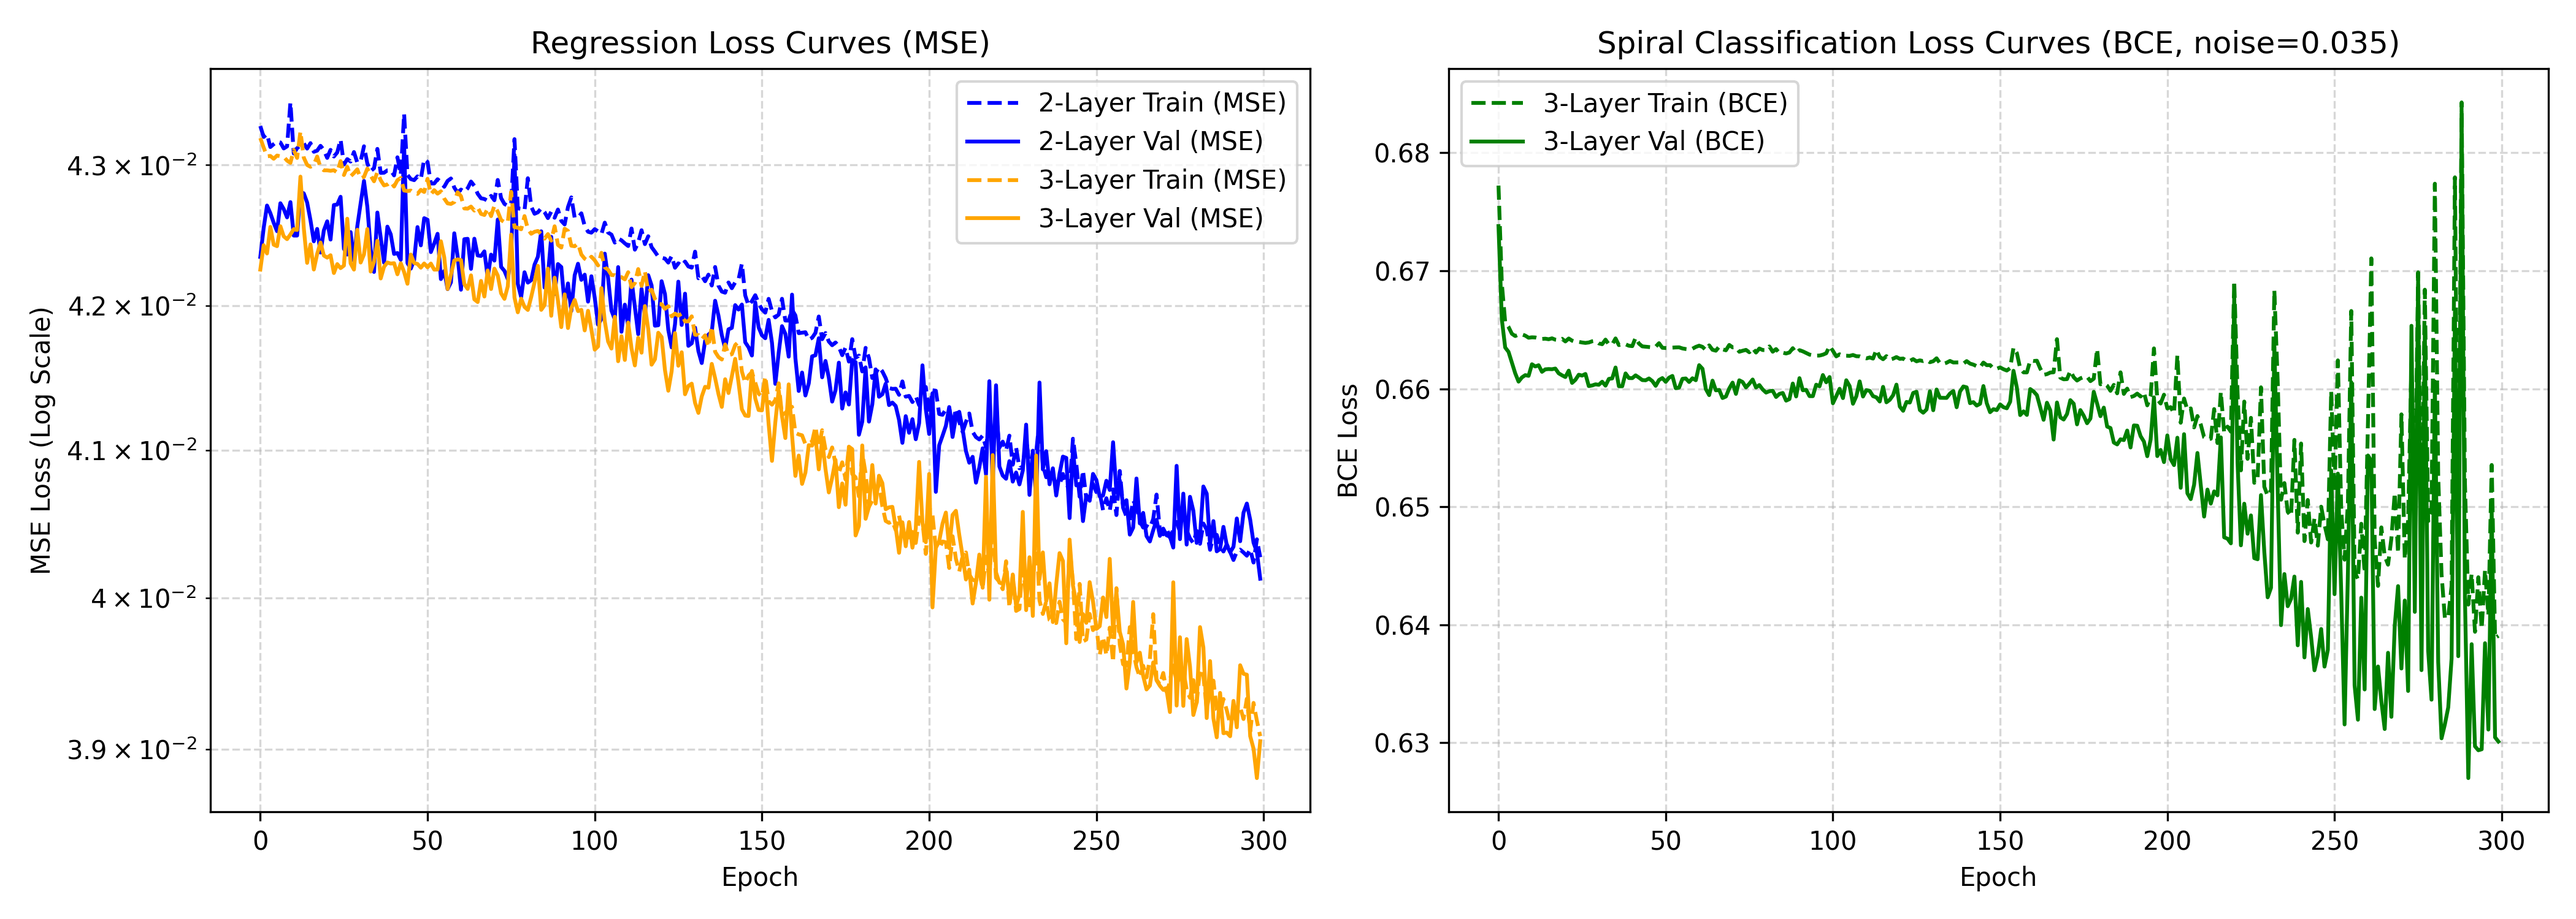
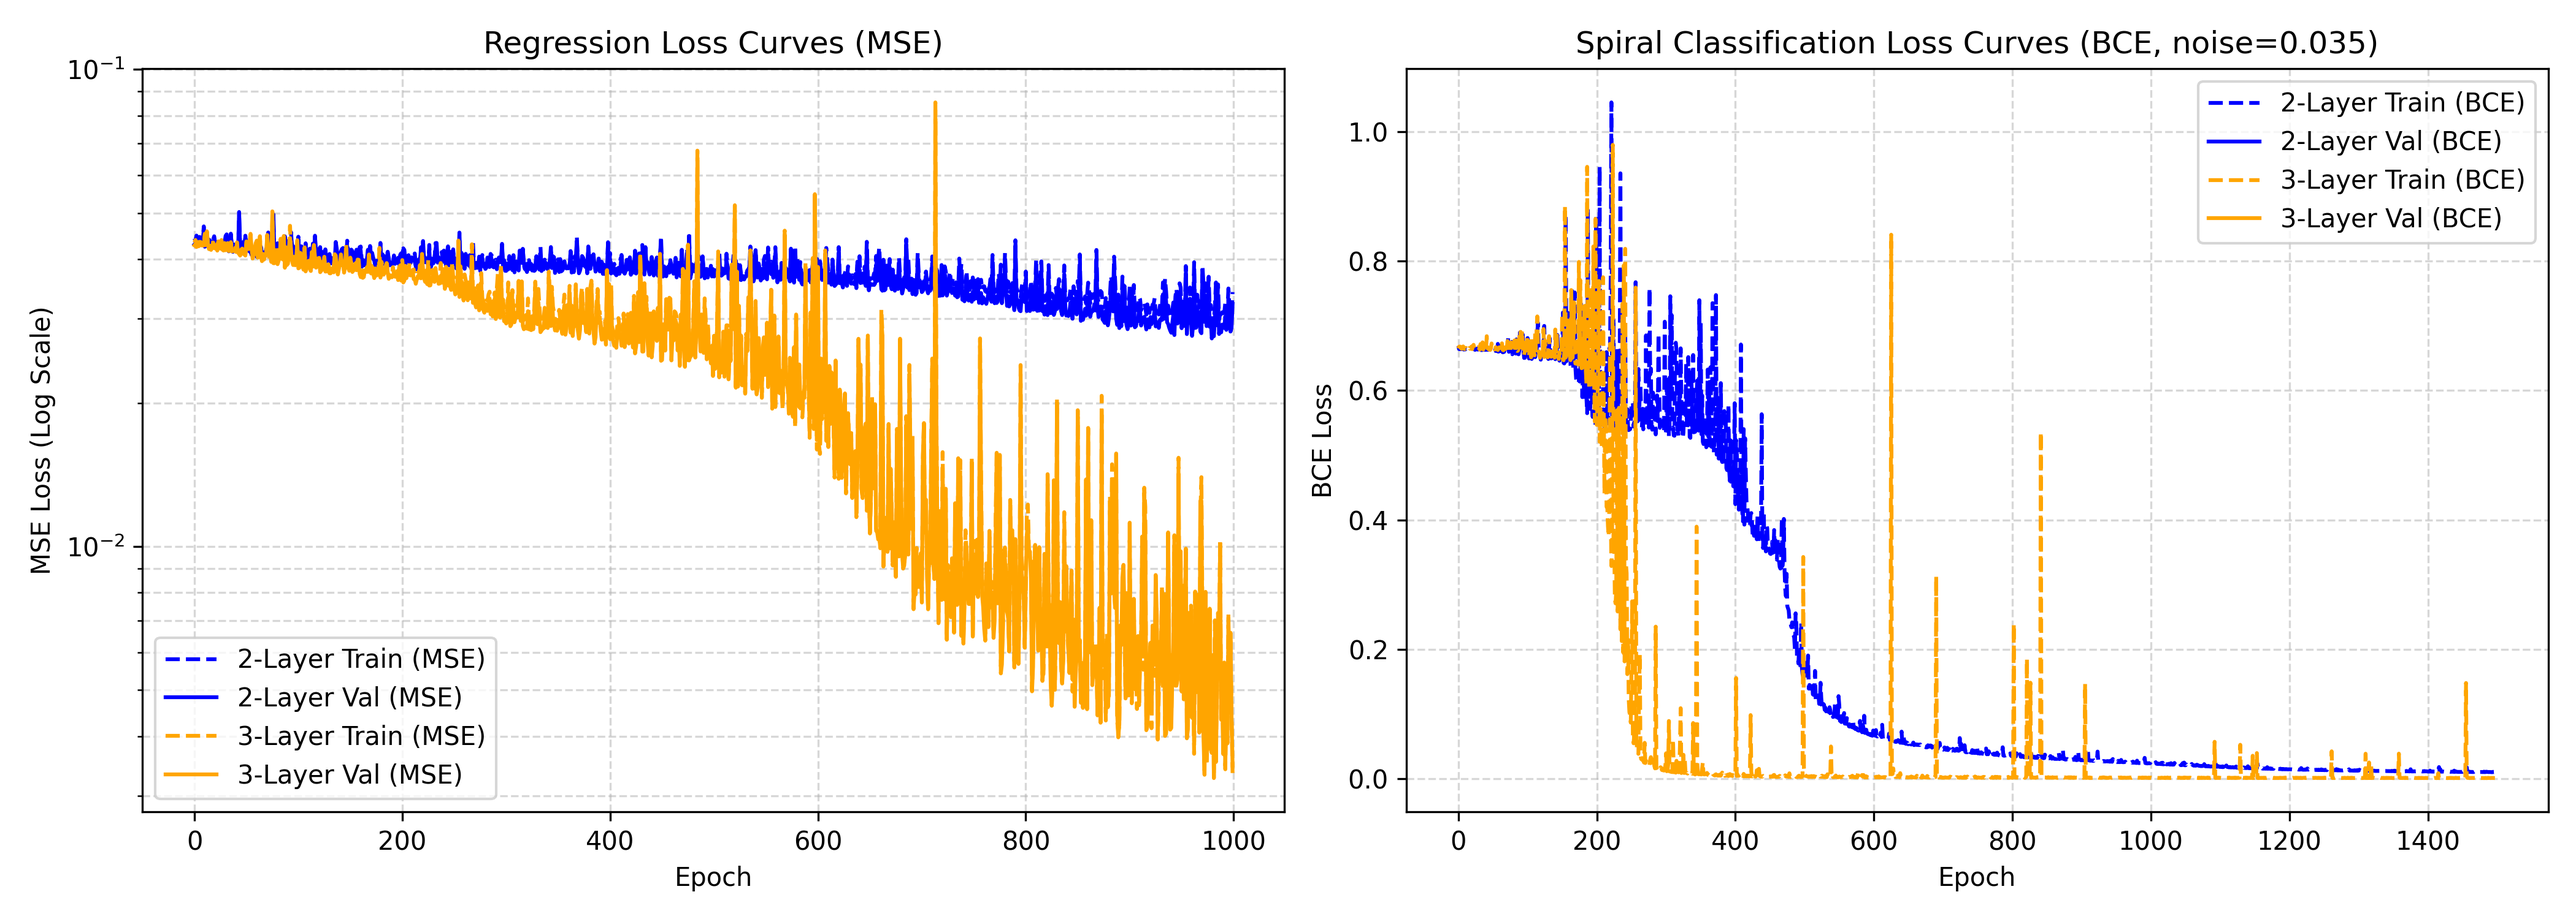
fix(regression): install scipy dependency and update regression scripts and figures

diff --git a/hw01/code/train_regression.py b/hw01/code/train_regression.py
@@ -2,6 +2,7 @@
 import numpy as np
 import os
 import matplotlib.pyplot as plt
+from scipy.interpolate import griddata
 from mlp import MLP
 from generate_data import generate_regression_data, generate_spiral_data
 
@@ -11,13 +12,15 @@ def train_regression_models():
     X_val, y_val = X_reg[2000:2500], y_reg[2000:2500]
     X_test, y_test = X_reg[2500:], y_reg[2500:]
     
+    # 增加 epochs 與學習率，讓迴歸模型充分擬合真實分佈 (-0.75 到 0.5)
+    epochs = 1000
+    lr = 0.2
+    batch_size = 64
+    num_samples = X_train.shape[0]
+    
     # 2-Layer Regression
     model_2l = MLP(input_dim=2, hidden_sizes=[32], output_dim=1, task='regression', seed=42)
     train_l_2, val_l_2 = [], []
-    epochs = 300
-    lr = 0.05
-    batch_size = 64
-    num_samples = X_train.shape[0]
     
     for epoch in range(epochs):
         indices = np.arange(num_samples)
@@ -45,25 +48,47 @@ def train_regression_models():
     return model_2l, model_3l, (train_l_2, val_l_2), (train_l_3, val_l_3), (X_test, y_test)
 
 def train_spiral_loss_for_curves():
+    # 訓練雙螺旋分類模型（使用報告中的最佳設定：epochs=1500, lr=0.5, noise=0.035）
     X_tr, y_tr = generate_spiral_data(1000, 0.035, 42)
     X_va, y_va = generate_spiral_data(250, 0.035, 100)
-    model = MLP(input_dim=2, hidden_sizes=[32, 32], output_dim=1, task='classification', seed=42)
-    train_losses, val_losses = [], []
+    
     eps = 1e-15
-    for epoch in range(300):
+    epochs = 1500
+    lr = 0.5
+    
+    # 2-Layer Spiral Loss
+    model_2l = MLP(input_dim=2, hidden_sizes=[32], output_dim=1, task='classification', seed=42)
+    train_l_2, val_l_2 = [], []
+    for epoch in range(epochs):
         indices = np.arange(X_tr.shape[0])
         np.random.shuffle(indices)
         for start in range(0, X_tr.shape[0], 64):
             end = min(start + 64, X_tr.shape[0])
-            grads = model.backward(X_tr[indices[start:end]], y_tr[indices[start:end]])
-            model.update(grads, 0.1)
-        p_tr = np.clip(model.forward(X_tr), eps, 1-eps)
-        p_va = np.clip(model.forward(X_va), eps, 1-eps)
-        train_losses.append(-np.mean(y_tr * np.log(p_tr) + (1 - y_tr) * np.log(1 - p_tr)))
-        val_losses.append(-np.mean(y_va * np.log(p_va) + (1 - y_va) * np.log(1 - p_va)))
-    return train_losses, val_losses
+            grads = model_2l.backward(X_tr[indices[start:end]], y_tr[indices[start:end]])
+            model_2l.update(grads, lr)
+        p_tr = np.clip(model_2l.forward(X_tr), eps, 1-eps)
+        p_va = np.clip(model_2l.forward(X_va), eps, 1-eps)
+        train_l_2.append(-np.mean(y_tr * np.log(p_tr) + (1 - y_tr) * np.log(1 - p_tr)))
+        val_l_2.append(-np.mean(y_va * np.log(p_va) + (1 - y_va) * np.log(1 - y_va)))
+        
+    # 3-Layer Spiral Loss
+    model_3l = MLP(input_dim=2, hidden_sizes=[32, 32], output_dim=1, task='classification', seed=42)
+    train_l_3, val_l_3 = [], []
+    for epoch in range(epochs):
+        indices = np.arange(X_tr.shape[0])
+        np.random.shuffle(indices)
+        for start in range(0, X_tr.shape[0], 64):
+            end = min(start + 64, X_tr.shape[0])
+            grads = model_3l.backward(X_tr[indices[start:end]], y_tr[indices[start:end]])
+            model_3l.update(grads, lr)
+        p_tr = np.clip(model_3l.forward(X_tr), eps, 1-eps)
+        p_va = np.clip(model_3l.forward(X_va), eps, 1-eps)
+        train_l_3.append(-np.mean(y_tr * np.log(p_tr) + (1 - y_tr) * np.log(1 - p_tr)))
+        val_l_3.append(-np.mean(y_va * np.log(p_va) + (1 - y_va) * np.log(1 - y_va)))
+        
+    return (train_l_2, val_l_2), (train_l_3, val_l_3)
 
-def plot_combined_loss_curves(reg_curves_2, reg_curves_3, spiral_curves):
+def plot_combined_loss_curves(reg_curves_2, reg_curves_3, spiral_curves_2, spiral_curves_3):
     os.makedirs('../figures', exist_ok=True)
     fig, axes = plt.subplots(1, 2, figsize=(14, 5))
     
@@ -79,9 +104,11 @@ def plot_combined_loss_curves(reg_curves_2, reg_curves_3, spiral_curves):
     axes[0].legend()
     axes[0].grid(True, which="both", ls="--", alpha=0.5)
     
-    # 右圖：雙螺旋分類任務 BCE Loss
-    axes[1].plot(spiral_curves[0], linestyle='--', color='green', label='3-Layer Train (BCE)')
-    axes[1].plot(spiral_curves[1], linestyle='-', color='green', label='3-Layer Val (BCE)')
+    # 右圖：雙螺旋分類任務 BCE Loss (包含 2層與 3層)
+    axes[1].plot(spiral_curves_2[0], linestyle='--', color='blue', label='2-Layer Train (BCE)')
+    axes[1].plot(spiral_curves_2[1], linestyle='-', color='blue', label='2-Layer Val (BCE)')
+    axes[1].plot(spiral_curves_3[0], linestyle='--', color='orange', label='3-Layer Train (BCE)')
+    axes[1].plot(spiral_curves_3[1], linestyle='-', color='orange', label='3-Layer Val (BCE)')
     axes[1].set_title('Spiral Classification Loss Curves (BCE, noise=0.035)')
     axes[1].set_xlabel('Epoch')
     axes[1].set_ylabel('BCE Loss')
@@ -95,46 +122,66 @@ def plot_combined_loss_curves(reg_curves_2, reg_curves_3, spiral_curves):
 
 def plot_regression_comparison(model_2l, model_3l, test_data):
     X_test, y_test = test_data
-    y_pred_2l = model_2l.forward(X_test).flatten()
-    y_pred_3l = model_3l.forward(X_test).flatten()
     y_true = y_test.flatten()
     
-    fig = plt.figure(figsize=(16, 4))
+    # 建立統一的網格 (Grid) 以確保真實曲面與預測曲面具有相同的網格與色階
+    x_min, x_max = X_test[:, 0].min() - 0.2, X_test[:, 0].max() + 0.2
+    y_min, y_max = X_test[:, 1].min() - 0.2, X_test[:, 1].max() + 0.2
+    xx, yy = np.meshgrid(np.linspace(x_min, x_max, 50), np.linspace(y_min, y_max, 50))
+    grid_points = np.c_[xx.ravel(), yy.ravel()]
     
+    Z_2l = model_2l.forward(grid_points).reshape(xx.shape)
+    Z_3l = model_3l.forward(grid_points).reshape(xx.shape)
+    
+    # 利用 griddata 將測試集點資料插值為網格上的真實曲面
+    Z_true = griddata(X_test, y_true, (xx, yy), method='cubic', fill_value=np.nan)
+    if np.isnan(Z_true).any():
+        Z_true = griddata(X_test, y_true, (xx, yy), method='linear', fill_value=0)
+        
+    # 計算全域 z 軸極值，確保三個曲面圖的 z 軸範圍與色階完全一致
+    vmin = min(np.nanmin(Z_true), Z_2l.min(), Z_3l.min())
+    vmax = max(np.nanmax(Z_true), Z_2l.max(), Z_3l.max())
+    
+    fig = plt.figure(figsize=(20, 5))
+    
+    # 1. True Surface
     ax1 = fig.add_subplot(1, 4, 1, projection='3d')
-    ax1.scatter(X_test[:, 0], X_test[:, 1], y_true, c=y_true, cmap='viridis', s=15)
+    ax1.plot_surface(xx, yy, Z_true, cmap='viridis', vmin=vmin, vmax=vmax, edgecolor='none', alpha=0.9)
     ax1.set_title('True Surface')
+    ax1.set_zlim(vmin, vmax)
     
+    # 2. 2-Layer Prediction
     ax2 = fig.add_subplot(1, 4, 2, projection='3d')
-    ax2.scatter(X_test[:, 0], X_test[:, 1], y_pred_2l, c=y_pred_2l, cmap='viridis', s=15)
+    ax2.plot_surface(xx, yy, Z_2l, cmap='viridis', vmin=vmin, vmax=vmax, edgecolor='none', alpha=0.9)
     ax2.set_title('2-Layer Prediction')
+    ax2.set_zlim(vmin, vmax)
     
+    # 3. 3-Layer Prediction
     ax3 = fig.add_subplot(1, 4, 3, projection='3d')
-    ax3.scatter(X_test[:, 0], X_test[:, 1], y_pred_3l, c=y_pred_3l, cmap='viridis', s=15)
+    ax3.plot_surface(xx, yy, Z_3l, cmap='viridis', vmin=vmin, vmax=vmax, edgecolor='none', alpha=0.9)
     ax3.set_title('3-Layer Prediction')
+    ax3.set_zlim(vmin, vmax)
     
-    ax4 = fig.add_subplot(1, 4, 4)
-    err_2l = np.abs(y_pred_2l - y_true)
-    err_3l = np.abs(y_pred_3l - y_true)
-    ax4.hist(err_2l, bins=30, alpha=0.5, color='blue', label='2-Layer Error')
-    ax4.hist(err_3l, bins=30, alpha=0.5, color='orange', label='3-Layer Error')
-    ax4.set_title('Absolute Error Distribution')
-    ax4.legend()
+    # 4. Error Surface (3-Layer Absolute Error Map)
+    ax4 = fig.add_subplot(1, 4, 4, projection='3d')
+    error_surface = np.abs(Z_3l - Z_true)
+    ax4.plot_surface(xx, yy, error_surface, cmap='plasma', edgecolor='none', alpha=0.9)
+    ax4.set_title('3-Layer Absolute Error Surface')
     
     plt.tight_layout()
     plt.savefig('../figures/regression_comparison.png', dpi=300)
     plt.close()
-    print("✅ regression_comparison.png 已更新成功！")
+    print("✅ regression_comparison.png 已更新成功（符合規定之同網格曲面與誤差圖格式）！")
 
 if __name__ == "__main__":
     print("正在訓練迴歸模型...")
     model_2l, model_3l, reg_2, reg_3, test_data = train_regression_models()
     
     print("正在訓練雙螺旋分類模型以取得 Loss 曲線...")
-    spiral_train_l, spiral_val_l = train_spiral_loss_for_curves()
+    spiral_2, spiral_3 = train_spiral_loss_for_curves()
     
     print("正在繪製結合後的 loss_curves.png...")
-    plot_combined_loss_curves(reg_2, reg_3, (spiral_train_l, spiral_val_l))
+    plot_combined_loss_curves(reg_2, reg_3, spiral_2, spiral_3)
     
     print("正在繪製 regression_comparison.png...")
     plot_regression_comparison(model_2l, model_3l, test_data)
